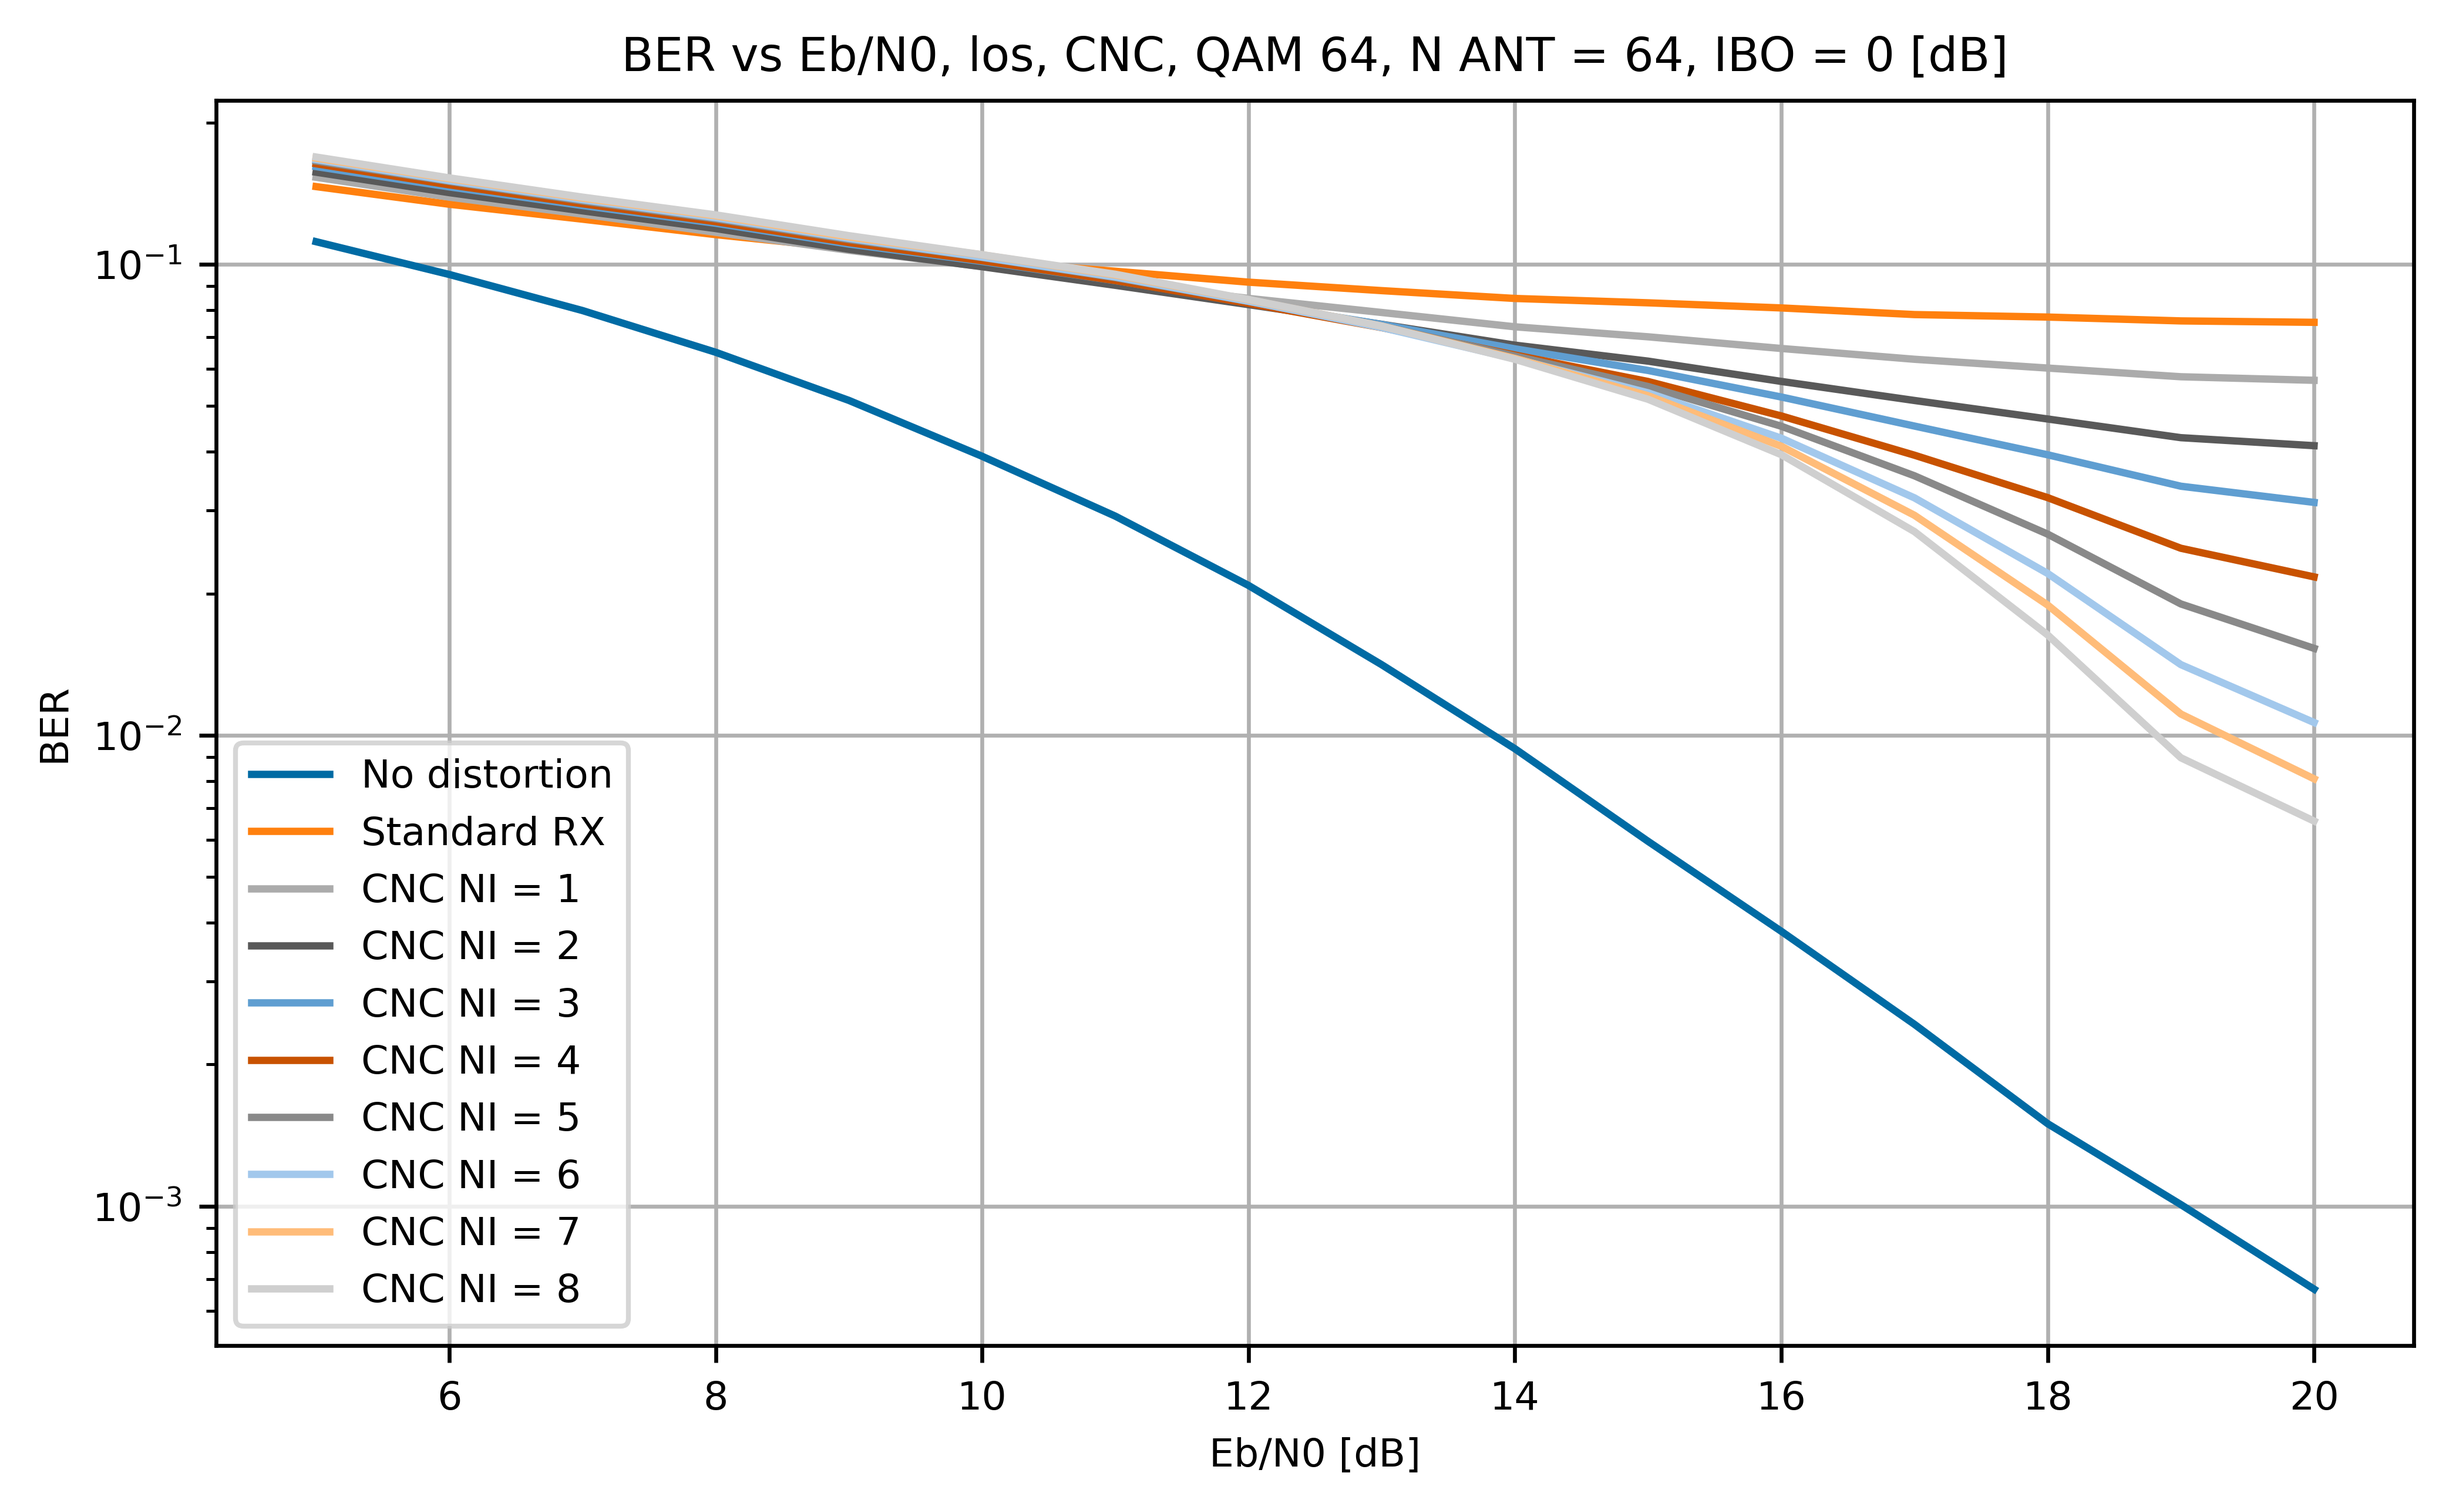
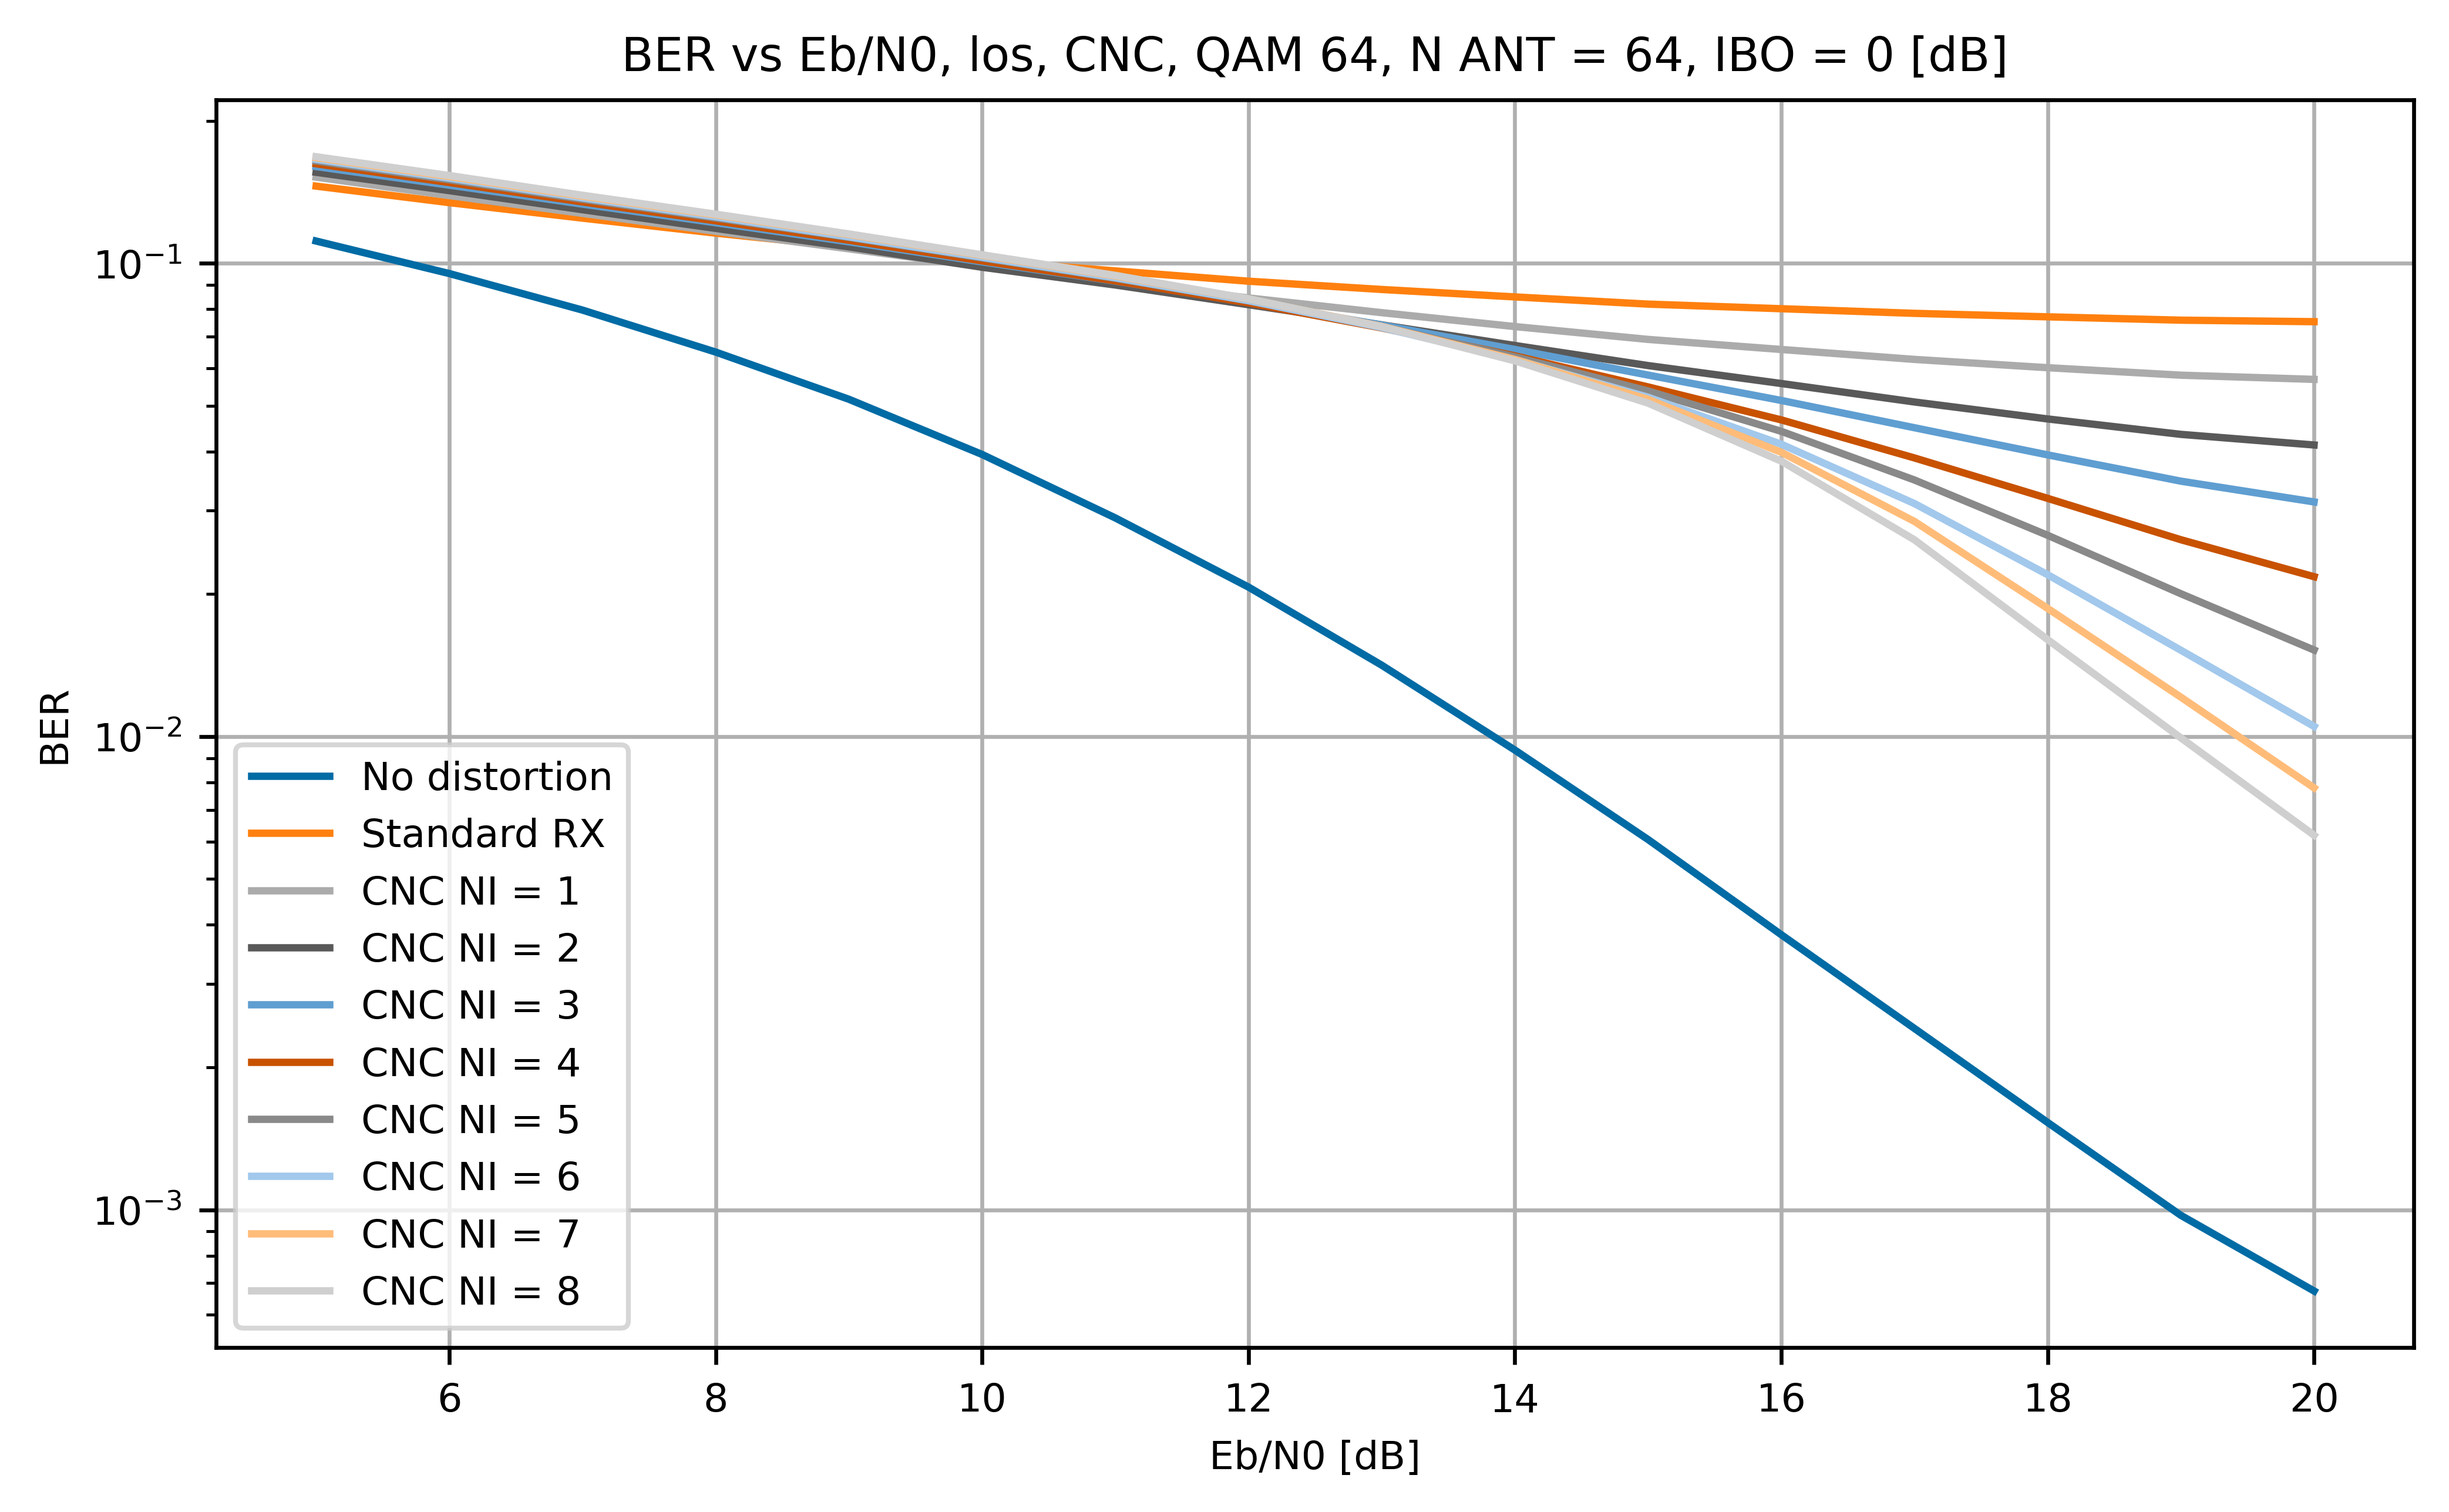
updated cnc with csi err results

diff --git a/main_mp_clipping_noise_cancellation/main_mp_miso_cnc_csi_err_ber_vs_ebn0.py b/main_mp_clipping_noise_cancellation/main_mp_miso_cnc_csi_err_ber_vs_ebn0.py
@@ -44,8 +44,8 @@ if __name__ == '__main__':
     reroll_chan = True
     cnc_n_iter_lst = np.insert(cnc_n_iter_lst, 0, 0)
 
-    csi_epsylon_lst = [0.01]
-    csi_epsylon_lst.extend(np.arange(0.1, 0.71, 0.1))
+    csi_epsylon_lst = []
+    csi_epsylon_lst.extend(np.arange(0.4, 0.71, 0.1))
 
 #%%
     # modulation
@@ -94,7 +94,7 @@ if __name__ == '__main__':
                                                                      rx_transceiver=my_standard_rx, n_paths=8,
                                                                      max_delay_spread=1e-6)
 
-            chan_lst = [my_miso_los_chan, my_miso_rayleigh_chan]
+            chan_lst = [my_miso_los_chan]
             my_noise = noise.Awgn(snr_db=10, seed=1234)
 
             for my_miso_chan in chan_lst:
@@ -169,7 +169,7 @@ if __name__ == '__main__':
                             '_'.join([str(val) for val in cnc_n_iter_lst[1:]]))
                         # timestamp = datetime.now().strftime("%Y-%m-%d-%H-%M-%S")
                         # filename_str += "_" + timestamp
-                        plt.savefig("../figs/vm_worker_results/%s.png" % filename_str, dpi=600, bbox_inches='tight')
+                        plt.savefig("figs/vm_worker_results/%s.png" % filename_str, dpi=600, bbox_inches='tight')
                         # plt.show()
                         plt.cla()
                         plt.close()

diff --git a/utilities.py b/utilities.py
@@ -338,13 +338,13 @@ def to_time_domain(in_sig_mat_fd):
 
 
 def save_to_csv(data_lst, filename):
-    with open("../figs/csv_results/%s.csv" % filename, 'w', newline='') as csv_file:
+    with open("figs/csv_results/%s.csv" % filename, 'w', newline='') as csv_file:
         writer = csv.writer(csv_file)
         writer.writerows(data_lst)
 
 
 def read_from_csv(filename):
-    with open("../figs/csv_results/%s.csv" % filename, 'r', newline='') as csv_file:
+    with open("figs/csv_results/%s.csv" % filename, 'r', newline='') as csv_file:
         reader = csv.reader(csv_file, quoting=csv.QUOTE_NONNUMERIC)
         data_lst = list(reader)
     return data_lst
